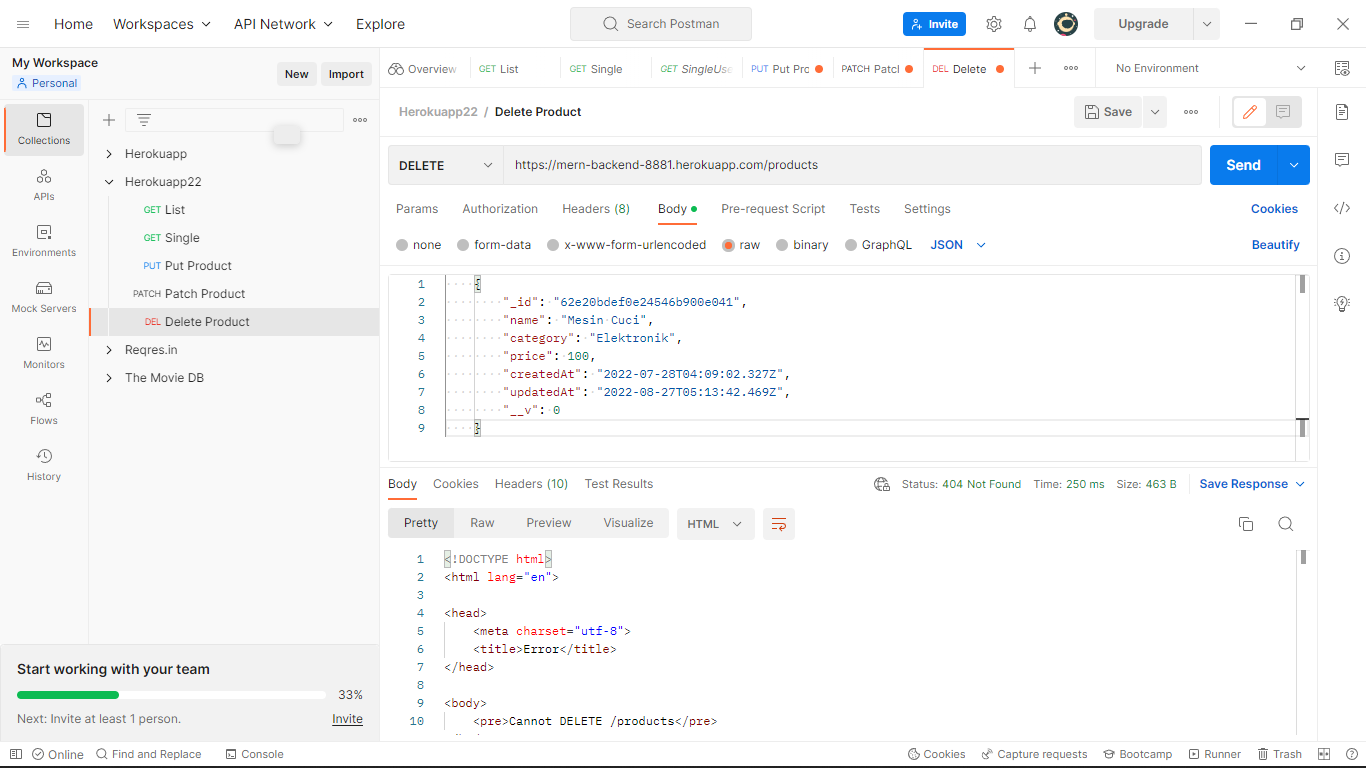
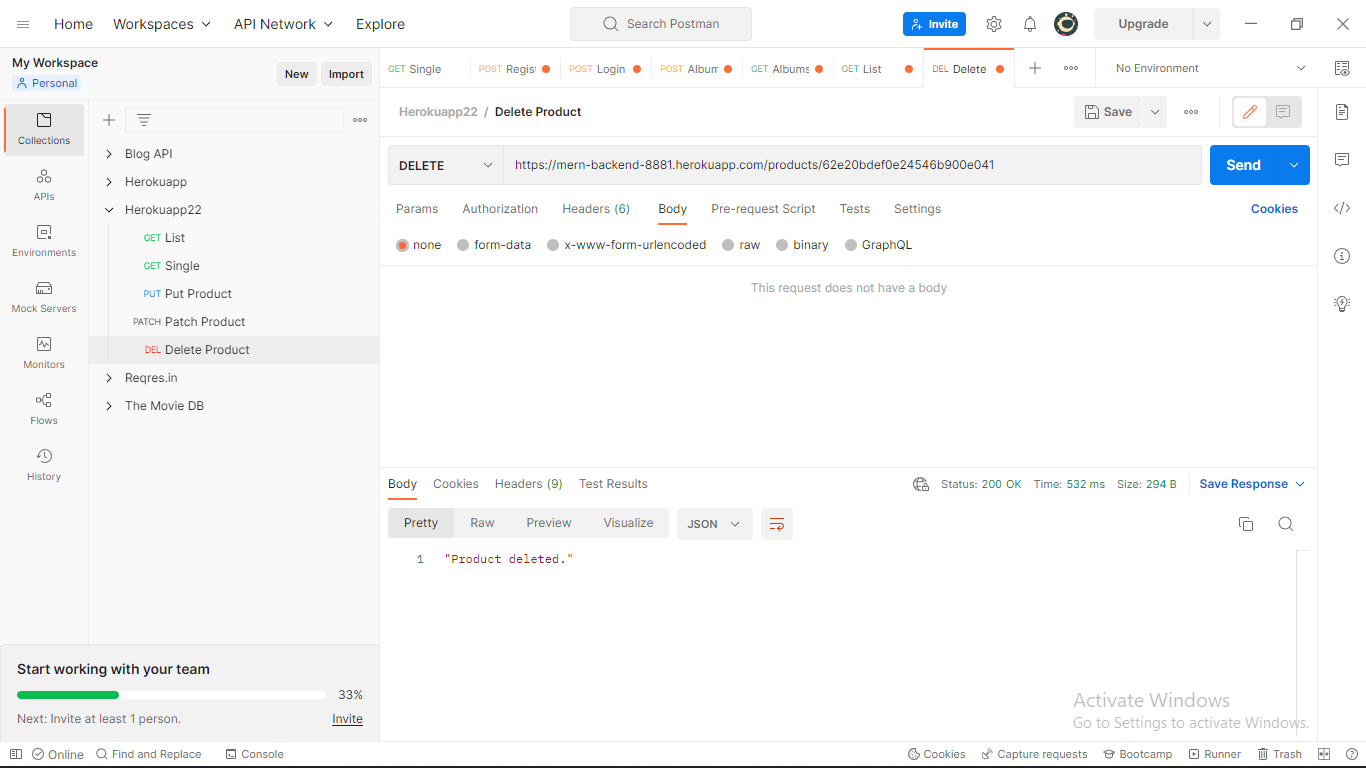
Post Test Day 22

diff --git a/src/test/java/com/juaracoding/restassured/TestAPIRizkiMaulana.java b/src/test/java/com/juaracoding/restassured/TestAPIRizkiMaulana.java
@@ -13,8 +13,8 @@ public class TestAPIRizkiMaulana {
     public void testGet() {
         //
         JSONObject request = new JSONObject();
-        request.put("name", "Mesin Cuci");
-        request.put("category", "Elektronik");
+        request.put("name", "Bootcamp Juli 2022");
+        request.put("category", "Katalon");
         System.out.println(request.toJSONString());
 
         given()
@@ -24,6 +24,26 @@ public class TestAPIRizkiMaulana {
                 .body(request.toJSONString())
                 .when()
                 .get("https://mern-backend-8881.herokuapp.com/products")
+                .then()
+                .statusCode(200)
+                .log().all();
+    }
+
+    @Test
+    public void testGetSingle() {
+        //
+        JSONObject request = new JSONObject();
+        request.put("name", "Dhanna");
+        request.put("category", "SQA Engineer");
+        System.out.println(request.toJSONString());
+
+        given()
+                .header("Content-Type", "application/json")
+                .contentType(ContentType.JSON)
+                .accept(ContentType.JSON)
+                .body(request.toJSONString())
+                .when()
+                .get("https://mern-backend-8881.herokuapp.com/products/630502fd7207f2c541e470cd")
                 .then()
                 .statusCode(200)
                 .log().all();
@@ -71,9 +91,9 @@ public class TestAPIRizkiMaulana {
     public void testDelete() {
 
         when()
-                .delete("https://mern-backend-8881.herokuapp.com/products")
+                .delete("https://mern-backend-8881.herokuapp.com/products/62e20bdef0e24546b900e041")
                 .then()
-                .statusCode(404)
+                .statusCode(200)
                 .log().all();
 
     }
